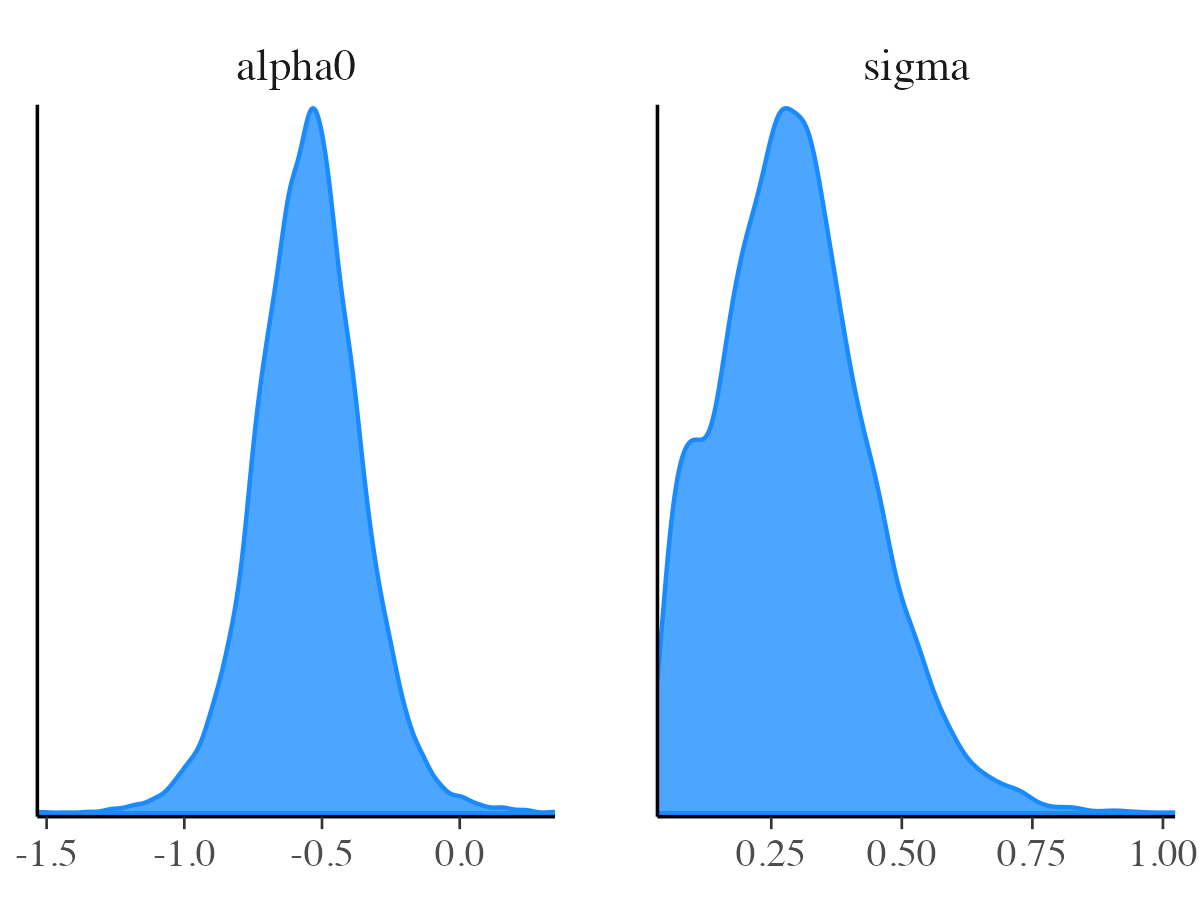
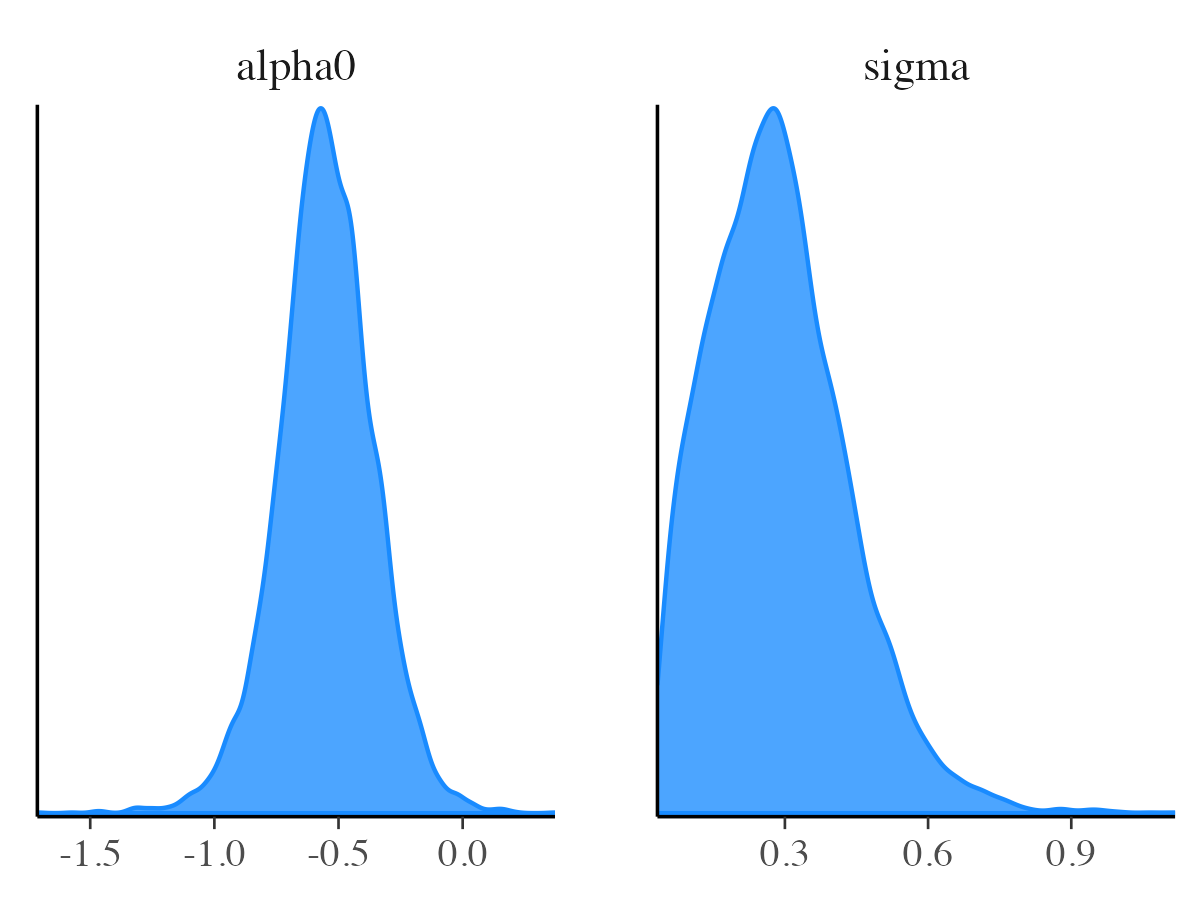
deploy: 178457703dd16180a29943af471a19559c3f4196

diff --git a/articles/rjuliabugs.html b/articles/rjuliabugs.html
@@ -260,17 +260,17 @@ through <code>summary</code> function</p>
 <span><span class="co">#&gt; </span></span>
 <span><span class="co">#&gt; Summary Statistics:</span></span>
 <span><span class="co">#&gt; </span></span>
-<span><span class="co">#&gt;  parameters     mean      std     mcse ess_bulk ess_tail  rhat ess_per_sec</span></span>
-<span><span class="co">#&gt;         tau 49.05311 122.9881 8.827289    310.7    291.5 1.012          NA</span></span>
-<span><span class="co">#&gt;     alpha12 -0.82811   0.4450 0.008193   2931.3   2640.3 1.001          NA</span></span>
-<span><span class="co">#&gt;      alpha2  1.35183   0.2772 0.005354   2798.6   3183.1 1.001          NA</span></span>
-<span><span class="co">#&gt;      alpha1  0.08540   0.3102 0.005494   3172.9   3765.0 1.001          NA</span></span>
-<span><span class="co">#&gt;      alpha0 -0.55194   0.1936 0.003588   2937.2   3505.3 1.001          NA</span></span>
-<span><span class="co">#&gt;        b[1] -0.19178   0.2587 0.006001   2048.8   3842.5 1.002          NA</span></span>
-<span><span class="co">#&gt;        b[2]  0.01276   0.2207 0.003120   5279.4   4193.3 1.002          NA</span></span>
-<span><span class="co">#&gt;        b[3] -0.19447   0.2329 0.005662   1763.4   3838.3 1.004          NA</span></span>
-<span><span class="co">#&gt;        b[4]  0.27198   0.2584 0.008188    970.9   3911.7 1.003          NA</span></span>
-<span><span class="co">#&gt;        b[5]  0.11774   0.2386 0.004089   3703.3   3807.7 1.002          NA</span></span>
+<span><span class="co">#&gt;  parameters     mean     std     mcse ess_bulk ess_tail  rhat ess_per_sec</span></span>
+<span><span class="co">#&gt;         tau 43.28334 99.3780 6.271808    377.2    300.4 1.010          NA</span></span>
+<span><span class="co">#&gt;     alpha12 -0.83331  0.4281 0.007641   3136.1   4519.0 1.002          NA</span></span>
+<span><span class="co">#&gt;      alpha2  1.36294  0.2679 0.004986   2914.1   3170.0 1.002          NA</span></span>
+<span><span class="co">#&gt;      alpha1  0.09248  0.3081 0.005446   3208.0   4348.6 1.001          NA</span></span>
+<span><span class="co">#&gt;      alpha0 -0.55812  0.1898 0.003312   3317.6   3405.1 1.001          NA</span></span>
+<span><span class="co">#&gt;        b[1] -0.18642  0.2593 0.005528   2327.0   3929.9 1.001          NA</span></span>
+<span><span class="co">#&gt;        b[2]  0.01039  0.2178 0.002872   5995.0   4034.8 1.003          NA</span></span>
+<span><span class="co">#&gt;        b[3] -0.19317  0.2277 0.005405   1895.3   4193.1 1.002          NA</span></span>
+<span><span class="co">#&gt;        b[4]  0.26747  0.2561 0.007371   1168.6   3323.2 1.001          NA</span></span>
+<span><span class="co">#&gt;        b[5]  0.12136  0.2408 0.003979   4009.1   4291.9 1.002          NA</span></span>
 <span><span class="co">#&gt;          ...</span></span>
 <span><span class="co">#&gt;   17 rows omitted</span></span></code></pre></div>
 <p>If we wish to obtain the summary statistics for each saved parameter,
@@ -381,7 +381,7 @@ package:</p>
 <span></span>
 <span><span class="co"># Example: effective sample size</span></span>
 <span><span class="fu">posterior</span><span class="fu">::</span><span class="fu"><a href="https://mc-stan.org/posterior/reference/ess_basic.html" class="external-link">ess_basic</a></span><span class="op">(</span><span class="va">posterior</span><span class="op">$</span><span class="va">params</span><span class="op">[</span>,,<span class="st">"alpha0"</span><span class="op">]</span><span class="op">)</span></span>
-<span><span class="co">#&gt; [1] 2911.58</span></span></code></pre></div>
+<span><span class="co">#&gt; [1] 3282.394</span></span></code></pre></div>
 </div>
 <div class="section level2">
 <h2 id="saving-and-loading-the-rjuliabugs-model">Saving and loading the <code>rjuliabugs</code> model<a class="anchor" aria-label="anchor" href="#saving-and-loading-the-rjuliabugs-model"></a>
